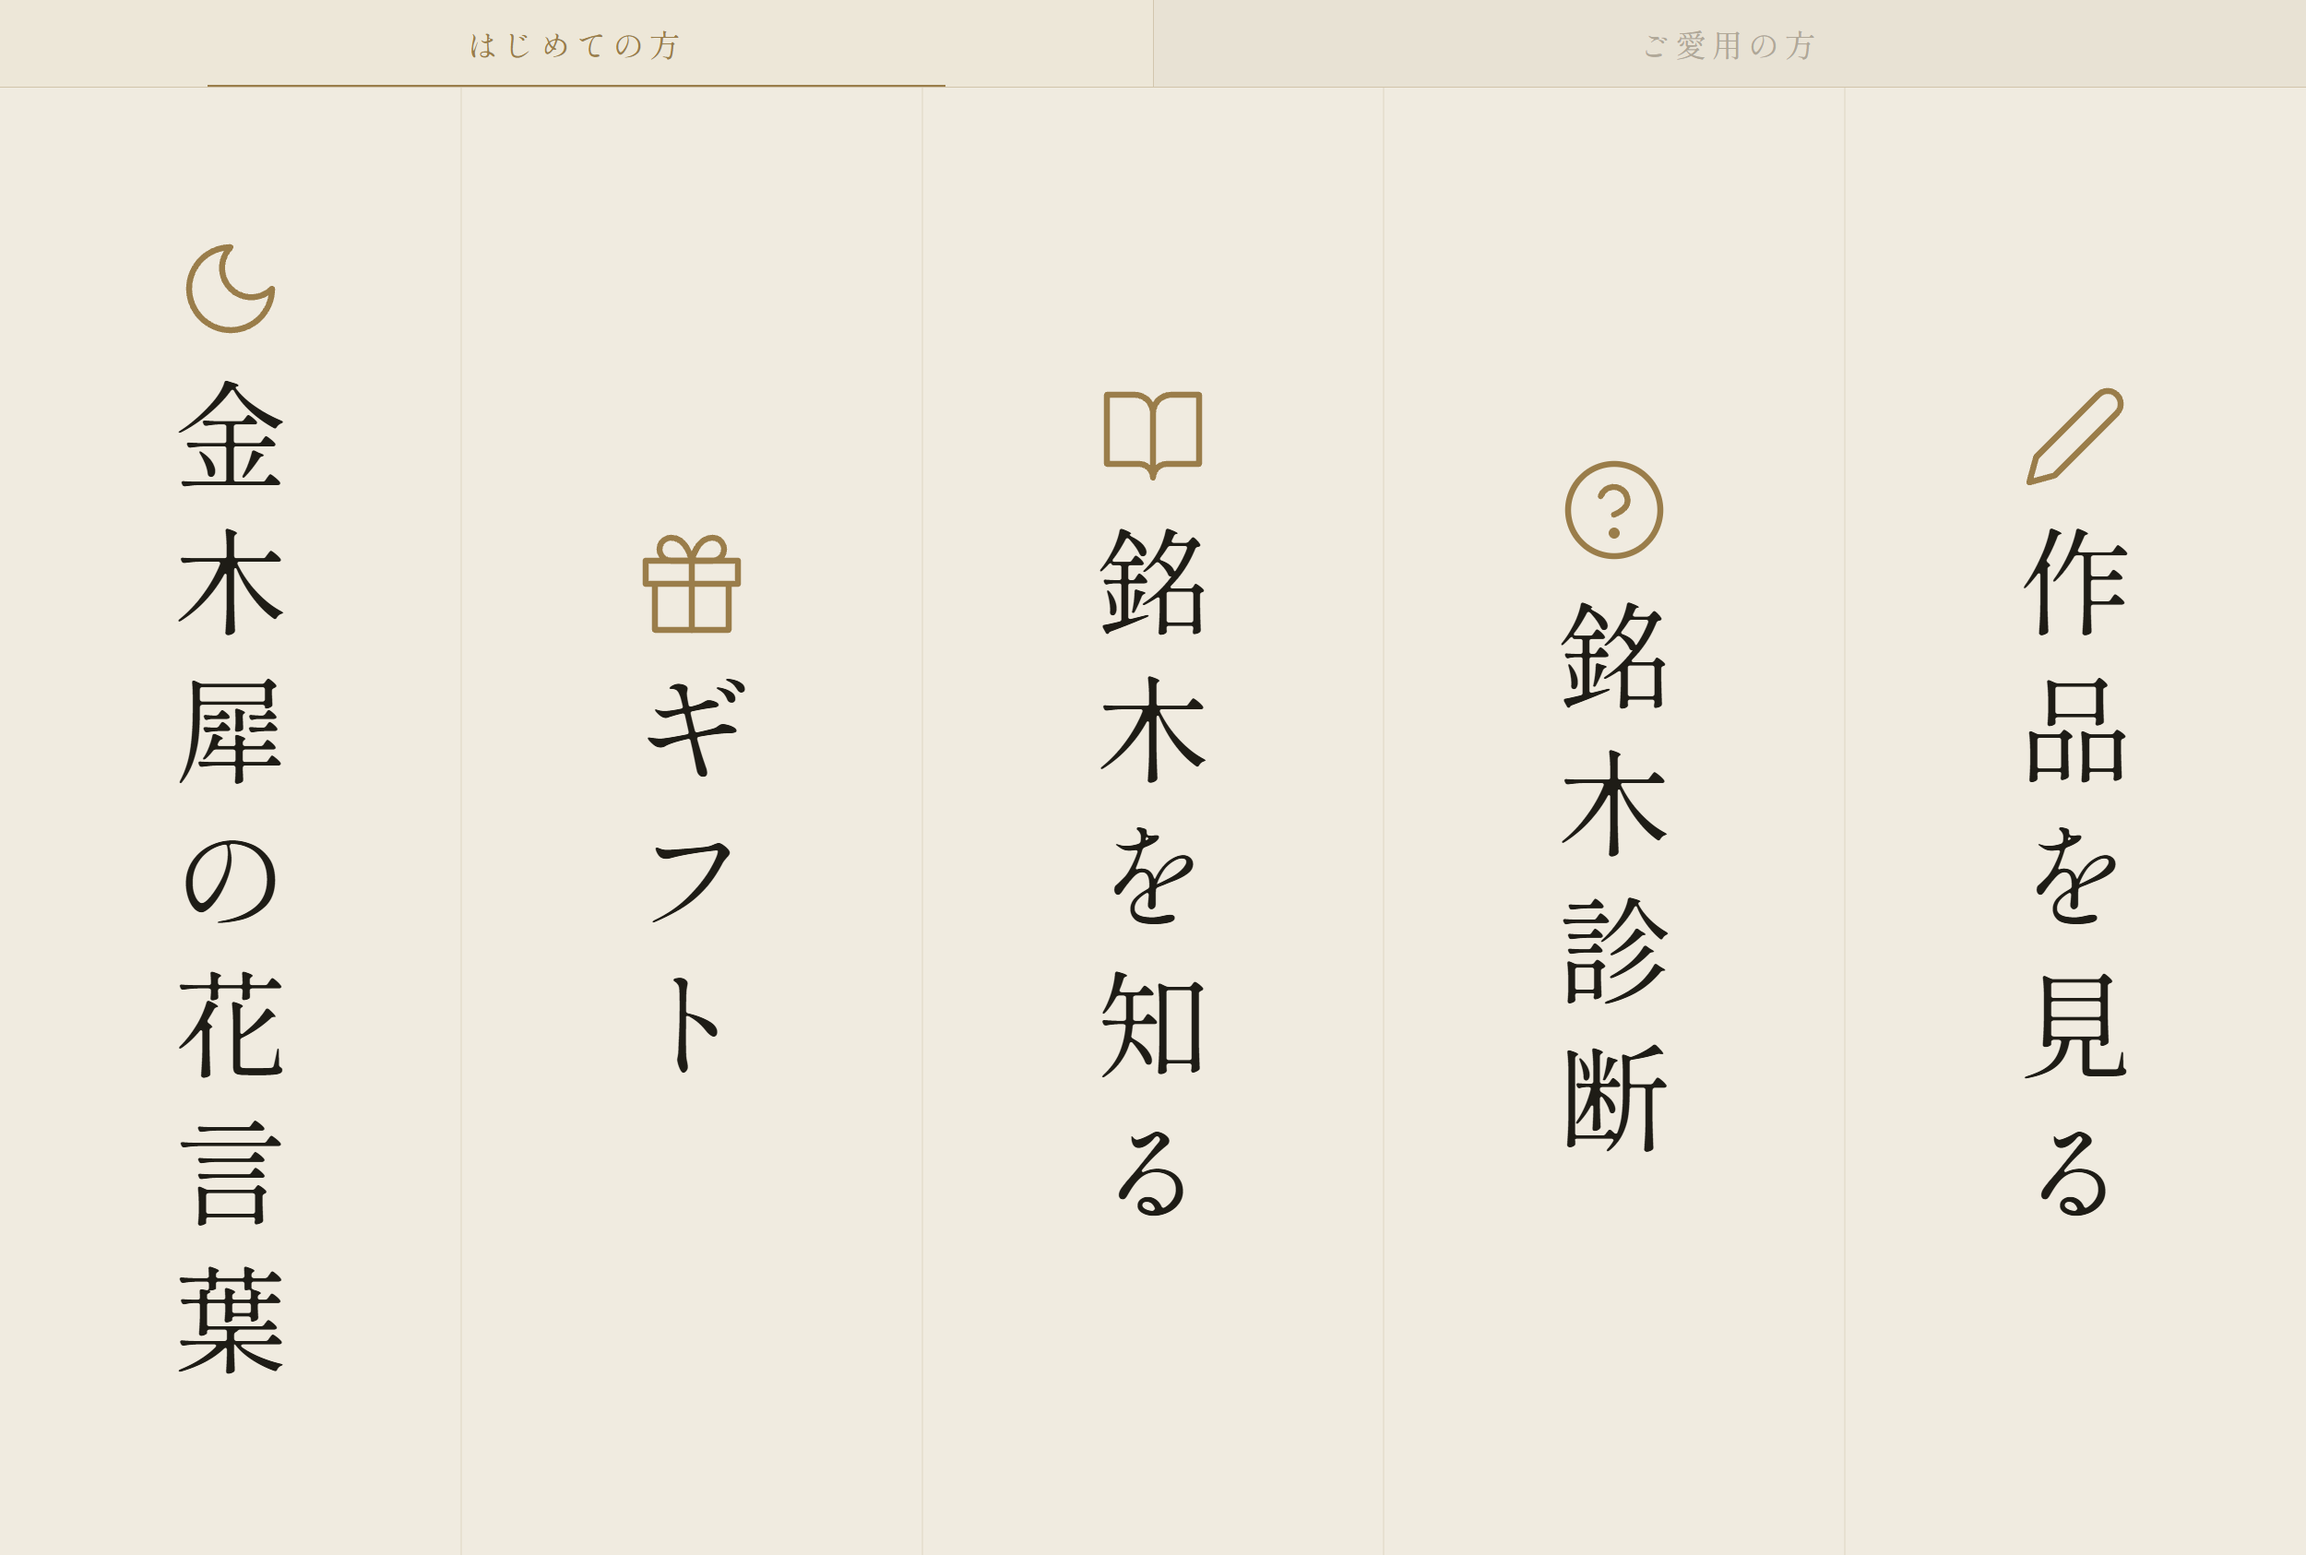
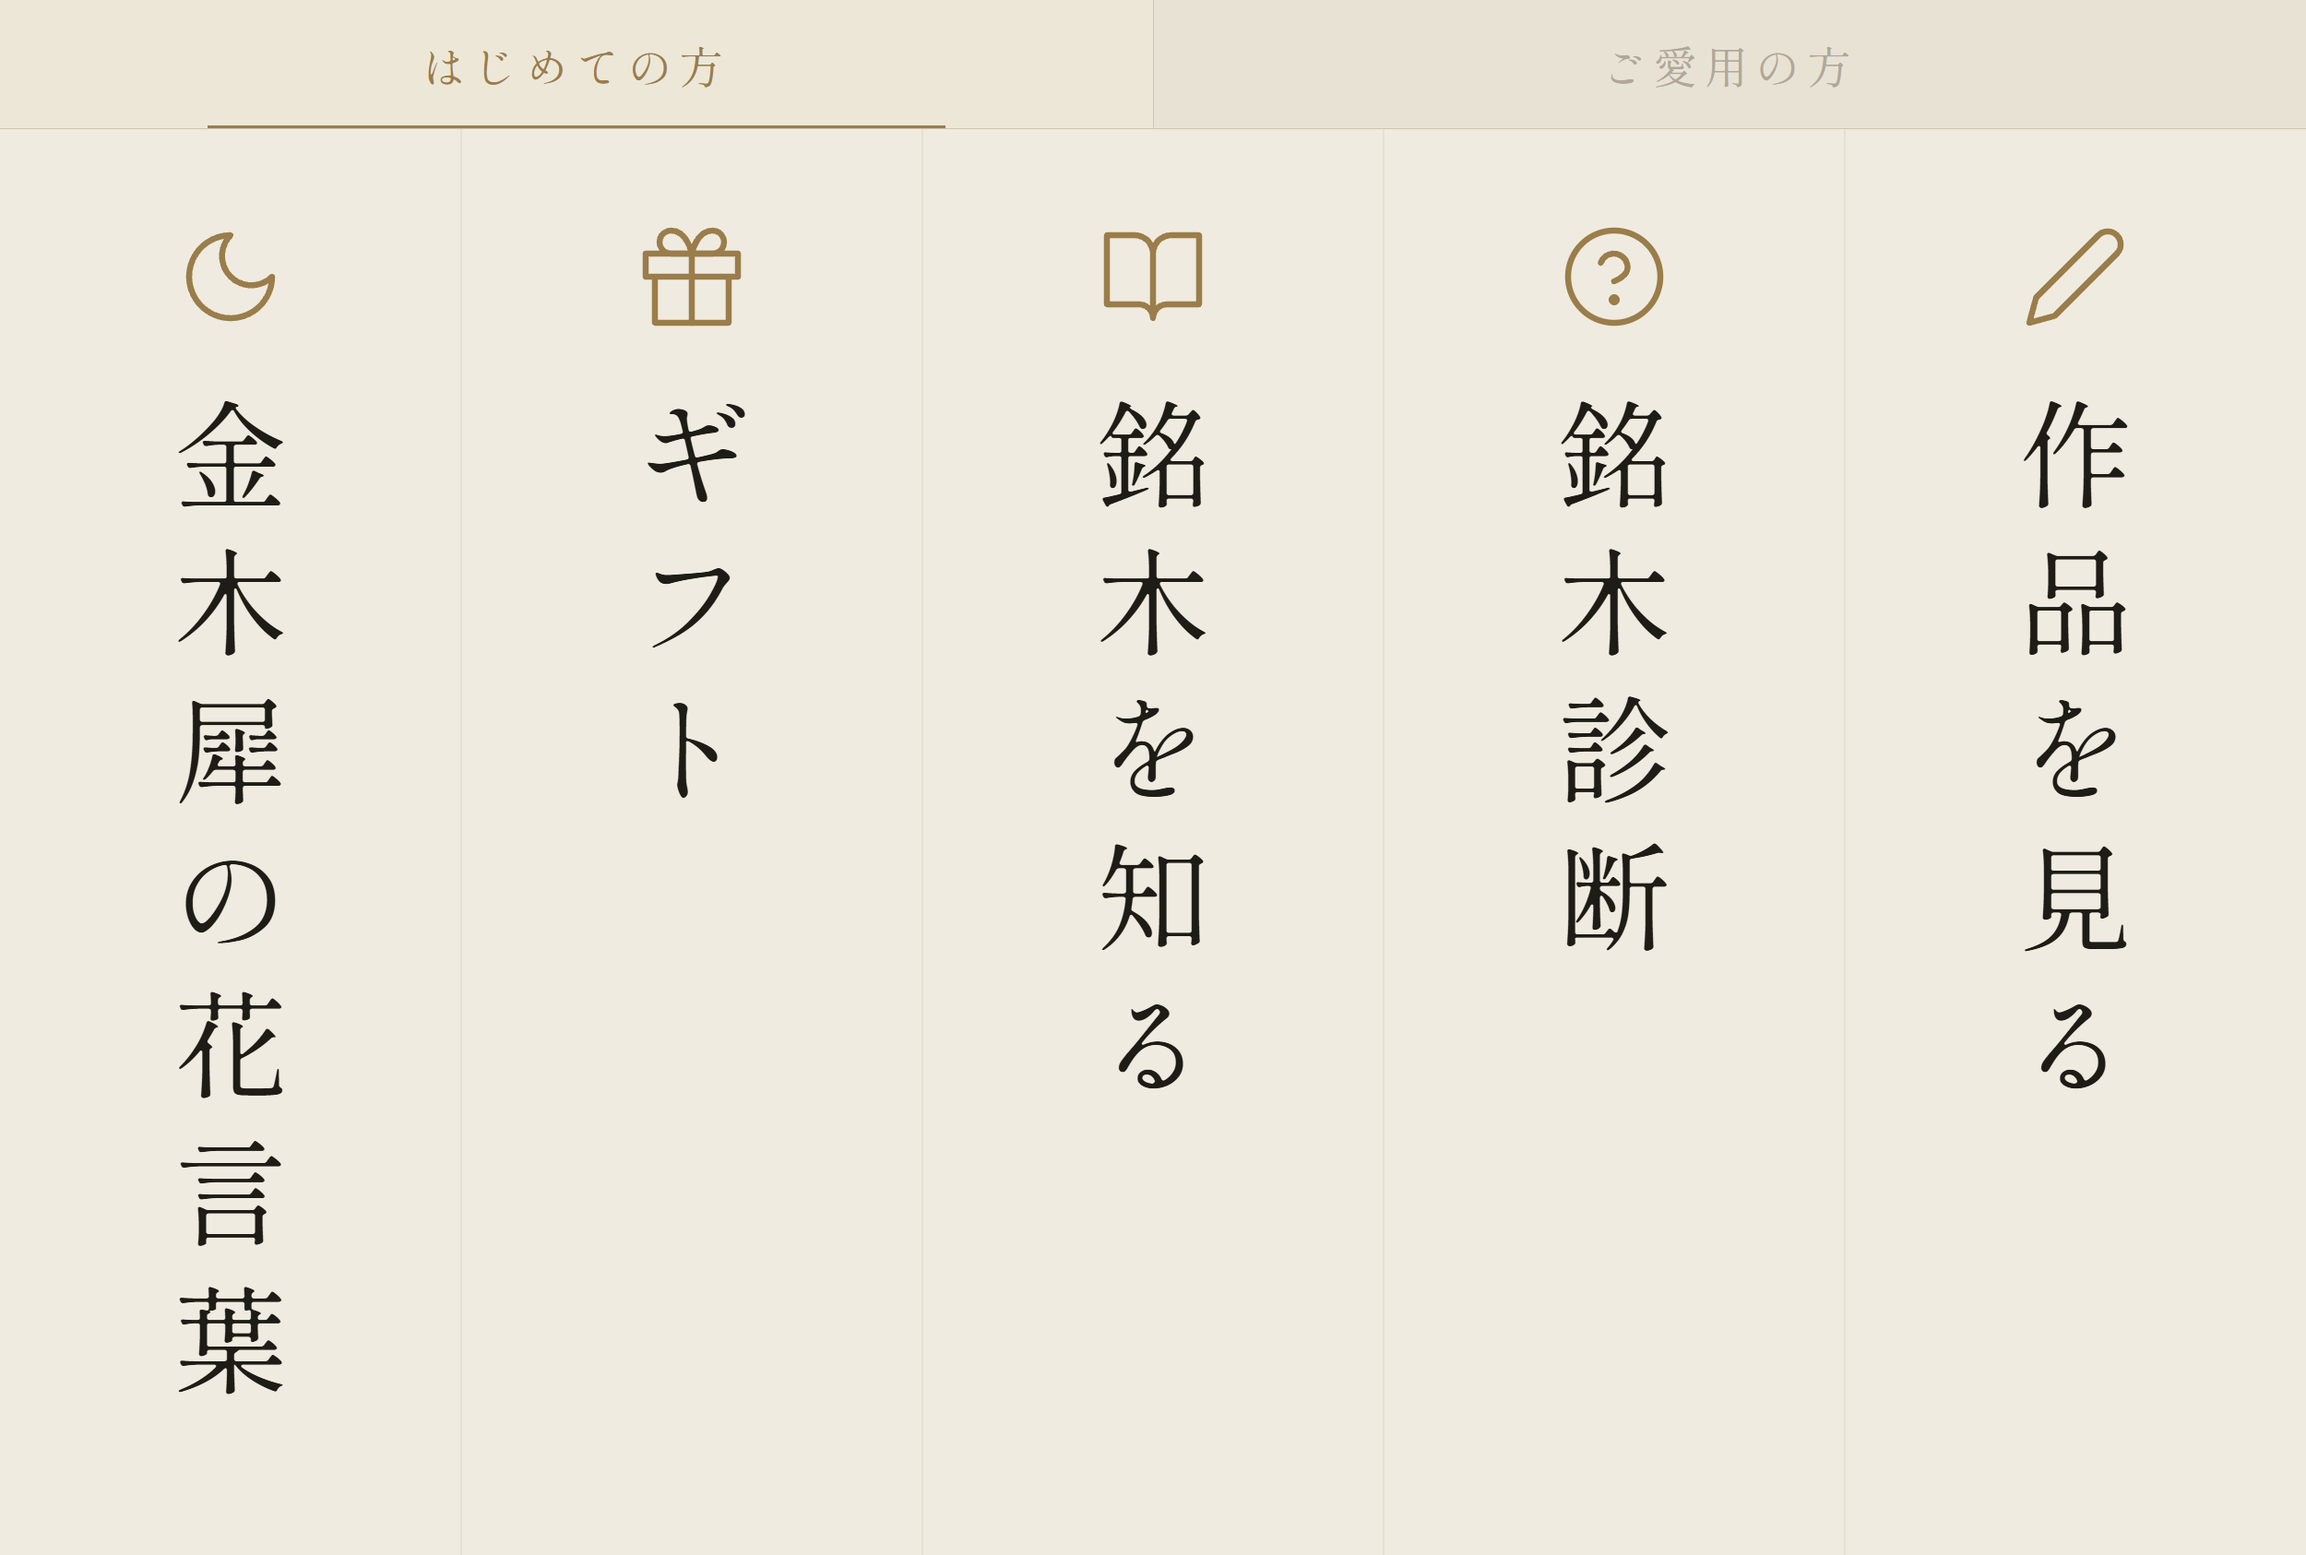
fix: タブバー拡大・縦書き書き出し位置を全列統一
- タブバー 95→140px、フォント 34→48px
- 全列 icon_cy=160, text_start_y=290 で上揃え (text-anchor="start")
- コンテンツ領域 1591→1546px

diff --git a/designs/richmenu-tab-a.html b/designs/richmenu-tab-a.html
@@ -13,18 +13,18 @@ body {
 }
 .menu { width: 2500px; height: 1686px; display: flex; flex-direction: column; background: #f0ebe0; }
 .tabs {
-  display: flex; align-items: stretch; height: 95px; flex-shrink: 0;
+  display: flex; align-items: stretch; height: 140px; flex-shrink: 0;
   background: #e8e2d4; border-bottom: 1px solid rgba(154,125,74,0.3);
 }
 .tab {
   flex: 1; display: flex; align-items: center; justify-content: center;
-  font-size: 34px; letter-spacing: 0.16em; position: relative;
+  font-size: 48px; letter-spacing: 0.16em; position: relative;
 }
 .tab.active   { color: #9a7d4a; background: #ede7d8; }
 .tab.inactive { color: #b0a898; background: transparent; }
 .tab.active::after {
   content: ''; position: absolute; bottom: 0; left: 18%; right: 18%;
-  height: 2px; background: #9a7d4a;
+  height: 3px; background: #9a7d4a;
 }
 .tab-sep { width: 1px; background: rgba(154,125,74,0.28); align-self: stretch; }
 </style>
@@ -38,77 +38,71 @@ body {
   </div>
 
   <!--
-    content_h=1591, icon=120px(half=60), font-size=126, letter-spacing=34, gap=70
-    text_h = N×126 + (N-1)×34
-    total  = 120 + 70 + text_h
-    icon_cy = (1591 - total)/2 + 60   ← 縦中央
-    text_cy = 873 (全列固定)          ← 横中央
-
-    金木犀の花言葉 (7ch): text_h=1086, total=1276, icon_cy=218  ← 80.2%
-    ギフト         (3ch): text_h=446,  total=636,  icon_cy=538
-    銘木を知る     (5ch): text_h=766,  total=956,  icon_cy=378
-    銘木診断       (4ch): text_h=606,  total=796,  icon_cy=458
-    作品を見る     (5ch): text_h=766,  total=956,  icon_cy=378
+    content_h=1546 (=1686-140)
+    icon=120px(half=60), font-size=126, letter-spacing=34, gap=70
+    全列統一: icon_cy=160, text_start_y=290 (=100+120+70)
+    text-anchor="start" → テキストは書き出し位置から下へ流れる
+    短いラベルは下に余白ができるが、書き出し位置は全列揃い
   -->
-  <svg width="2500" height="1591" xmlns="http://www.w3.org/2000/svg" style="flex-shrink:0;display:block;">
-    <rect width="2500" height="1591" fill="#f0ebe0"/>
-    <line x1="500"  y1="0" x2="500"  y2="1591" stroke="rgba(154,125,74,0.2)" stroke-width="1"/>
-    <line x1="1000" y1="0" x2="1000" y2="1591" stroke="rgba(154,125,74,0.2)" stroke-width="1"/>
-    <line x1="1500" y1="0" x2="1500" y2="1591" stroke="rgba(154,125,74,0.2)" stroke-width="1"/>
-    <line x1="2000" y1="0" x2="2000" y2="1591" stroke="rgba(154,125,74,0.2)" stroke-width="1"/>
+  <svg width="2500" height="1546" xmlns="http://www.w3.org/2000/svg" style="flex-shrink:0;display:block;">
+    <rect width="2500" height="1546" fill="#f0ebe0"/>
+    <line x1="500"  y1="0" x2="500"  y2="1546" stroke="rgba(154,125,74,0.2)" stroke-width="1"/>
+    <line x1="1000" y1="0" x2="1000" y2="1546" stroke="rgba(154,125,74,0.2)" stroke-width="1"/>
+    <line x1="1500" y1="0" x2="1500" y2="1546" stroke="rgba(154,125,74,0.2)" stroke-width="1"/>
+    <line x1="2000" y1="0" x2="2000" y2="1546" stroke="rgba(154,125,74,0.2)" stroke-width="1"/>
 
-    <!-- Col 1: 金木犀の花言葉 (cx=250, icon_cy=218) -->
-    <g transform="translate(250,218)">
+    <!-- Col 1: 金木犀の花言葉 (cx=250) -->
+    <g transform="translate(250,160)">
       <svg x="-60" y="-60" width="120" height="120" viewBox="0 0 24 24" fill="none" stroke="#9a7d4a" stroke-width="1.3" stroke-linecap="round" stroke-linejoin="round">
         <path d="M12 3a6 6 0 009 9 9 9 0 11-9-9z"/>
       </svg>
     </g>
-    <text x="250" y="873" writing-mode="vertical-rl" text-anchor="middle"
+    <text x="250" y="290" writing-mode="vertical-rl" text-anchor="start"
           font-family="'Shippori Mincho B1','Hiragino Mincho ProN','Yu Mincho',serif"
           font-size="126" letter-spacing="34" fill="#1e1c16">金木犀の花言葉</text>
 
-    <!-- Col 2: ギフト (cx=750, icon_cy=538) -->
-    <g transform="translate(750,538)">
+    <!-- Col 2: ギフト (cx=750) -->
+    <g transform="translate(750,160)">
       <svg x="-60" y="-60" width="120" height="120" viewBox="0 0 24 24" fill="none" stroke="#9a7d4a" stroke-width="1.3" stroke-linecap="round" stroke-linejoin="round">
         <path d="M20 12v10H4V12"/><path d="M22 7H2v5h20V7z"/><path d="M12 22V7"/>
         <path d="M12 7H7.5a2.5 2.5 0 010-5C11 2 12 7 12 7z"/>
         <path d="M12 7h4.5a2.5 2.5 0 000-5C13 2 12 7 12 7z"/>
       </svg>
     </g>
-    <text x="750" y="873" writing-mode="vertical-rl" text-anchor="middle"
+    <text x="750" y="290" writing-mode="vertical-rl" text-anchor="start"
           font-family="'Shippori Mincho B1','Hiragino Mincho ProN','Yu Mincho',serif"
           font-size="126" letter-spacing="34" fill="#1e1c16">ギフト</text>
 
-    <!-- Col 3: 銘木を知る (cx=1250, icon_cy=378) -->
-    <g transform="translate(1250,378)">
+    <!-- Col 3: 銘木を知る (cx=1250) -->
+    <g transform="translate(1250,160)">
       <svg x="-60" y="-60" width="120" height="120" viewBox="0 0 24 24" fill="none" stroke="#9a7d4a" stroke-width="1.3" stroke-linecap="round" stroke-linejoin="round">
         <path d="M2 3h6a4 4 0 014 4v14a3 3 0 00-3-3H2z"/>
         <path d="M22 3h-6a4 4 0 00-4 4v14a3 3 0 013-3h7z"/>
       </svg>
     </g>
-    <text x="1250" y="873" writing-mode="vertical-rl" text-anchor="middle"
+    <text x="1250" y="290" writing-mode="vertical-rl" text-anchor="start"
           font-family="'Shippori Mincho B1','Hiragino Mincho ProN','Yu Mincho',serif"
           font-size="126" letter-spacing="34" fill="#1e1c16">銘木を知る</text>
 
-    <!-- Col 4: 銘木診断 (cx=1750, icon_cy=458) -->
-    <g transform="translate(1750,458)">
+    <!-- Col 4: 銘木診断 (cx=1750) -->
+    <g transform="translate(1750,160)">
       <svg x="-60" y="-60" width="120" height="120" viewBox="0 0 24 24" fill="none" stroke="#9a7d4a" stroke-width="1.3" stroke-linecap="round" stroke-linejoin="round">
         <path d="M9.09 9a3 3 0 015.83 1c0 2-3 3-3 3"/>
         <circle cx="12" cy="17" r="1.2" fill="#9a7d4a" stroke="none"/>
         <circle cx="12" cy="12" r="10"/>
       </svg>
     </g>
-    <text x="1750" y="873" writing-mode="vertical-rl" text-anchor="middle"
+    <text x="1750" y="290" writing-mode="vertical-rl" text-anchor="start"
           font-family="'Shippori Mincho B1','Hiragino Mincho ProN','Yu Mincho',serif"
           font-size="126" letter-spacing="34" fill="#1e1c16">銘木診断</text>
 
-    <!-- Col 5: 作品を見る (cx=2250, icon_cy=378) -->
-    <g transform="translate(2250,378)">
+    <!-- Col 5: 作品を見る (cx=2250) -->
+    <g transform="translate(2250,160)">
       <svg x="-60" y="-60" width="120" height="120" viewBox="0 0 24 24" fill="none" stroke="#9a7d4a" stroke-width="1.3" stroke-linecap="round" stroke-linejoin="round">
         <path d="M17 3a2.828 2.828 0 114 4L7.5 20.5 2 22l1.5-5.5L17 3z"/>
       </svg>
     </g>
-    <text x="2250" y="873" writing-mode="vertical-rl" text-anchor="middle"
+    <text x="2250" y="290" writing-mode="vertical-rl" text-anchor="start"
           font-family="'Shippori Mincho B1','Hiragino Mincho ProN','Yu Mincho',serif"
           font-size="126" letter-spacing="34" fill="#1e1c16">作品を見る</text>
   </svg>

diff --git a/designs/richmenu-tab-b.html b/designs/richmenu-tab-b.html
@@ -13,18 +13,18 @@ body {
 }
 .menu { width: 2500px; height: 1686px; display: flex; flex-direction: column; background: #1a0e08; }
 .tabs {
-  display: flex; align-items: stretch; height: 95px; flex-shrink: 0;
+  display: flex; align-items: stretch; height: 140px; flex-shrink: 0;
   background: #120a04; border-bottom: 1px solid rgba(154,125,74,0.3);
 }
 .tab {
   flex: 1; display: flex; align-items: center; justify-content: center;
-  font-size: 34px; letter-spacing: 0.16em; position: relative;
+  font-size: 48px; letter-spacing: 0.16em; position: relative;
 }
 .tab.active   { color: #e0cca0; background: #1e1208; }
 .tab.inactive { color: rgba(224,204,160,0.38); background: transparent; }
 .tab.active::after {
   content: ''; position: absolute; bottom: 0; left: 18%; right: 18%;
-  height: 2px; background: #9a7d4a;
+  height: 3px; background: #9a7d4a;
 }
 .tab-sep { width: 1px; background: rgba(154,125,74,0.28); align-self: stretch; }
 </style>
@@ -38,17 +38,13 @@ body {
   </div>
 
   <!--
-    content_h=1591, icon=120px(half=60), font-size=126, letter-spacing=34, gap=70
-    text_cy = 873 (全列固定)
-
-    お手入れ (4ch): text_h=606, total=796,  icon_cy=458
-    注文確認 (4ch): same
-    新作     (2ch): text_h=286, total=476,  icon_cy=618
+    content_h=1546, icon_cy=160, text_start_y=290, text-anchor="start"
+    全列のアイコン・書き出しを同じ高さに揃える
   -->
-  <svg width="2500" height="1591" xmlns="http://www.w3.org/2000/svg" style="flex-shrink:0;">
-    <rect width="2500" height="1591" fill="#1a0e08"/>
-    <line x1="833"  y1="0" x2="833"  y2="1591" stroke="rgba(154,125,74,0.22)" stroke-width="1"/>
-    <line x1="1667" y1="0" x2="1667" y2="1591" stroke="rgba(154,125,74,0.22)" stroke-width="1"/>
+  <svg width="2500" height="1546" xmlns="http://www.w3.org/2000/svg" style="flex-shrink:0;">
+    <rect width="2500" height="1546" fill="#1a0e08"/>
+    <line x1="833"  y1="0" x2="833"  y2="1546" stroke="rgba(154,125,74,0.22)" stroke-width="1"/>
+    <line x1="1667" y1="0" x2="1667" y2="1546" stroke="rgba(154,125,74,0.22)" stroke-width="1"/>
     <defs>
       <linearGradient id="gold-line" x1="0" y1="0" x2="1" y2="0">
         <stop offset="0%"   stop-color="rgba(154,125,74,0)"/>
@@ -60,20 +56,20 @@ body {
     <line x1="983"  y1="0" x2="1517" y2="0" stroke="url(#gold-line)" stroke-width="1"/>
     <line x1="1817" y1="0" x2="2350" y2="0" stroke="url(#gold-line)" stroke-width="1"/>
 
-    <!-- Col 1: お手入れ (cx=417, icon_cy=458) -->
-    <g transform="translate(417,458)">
+    <!-- Col 1: お手入れ (cx=417) -->
+    <g transform="translate(417,160)">
       <svg x="-60" y="-60" width="120" height="120" viewBox="0 0 24 24"
            fill="none" stroke="#9a7d4a" stroke-width="1.3" stroke-linecap="round" stroke-linejoin="round">
         <path d="M12 22s8-4 8-10V5l-8-3-8 3v7c0 6 8 10 8 10z"/>
         <path d="M9 12l2 2 4-4"/>
       </svg>
     </g>
-    <text x="417" y="873" writing-mode="vertical-rl" text-anchor="middle"
+    <text x="417" y="290" writing-mode="vertical-rl" text-anchor="start"
           font-family="'Shippori Mincho B1','Hiragino Mincho ProN','Yu Mincho',serif"
           font-size="126" letter-spacing="34" fill="#e0d4b8">お手入れ</text>
 
-    <!-- Col 2: 注文確認 (cx=1250, icon_cy=458) -->
-    <g transform="translate(1250,458)">
+    <!-- Col 2: 注文確認 (cx=1250) -->
+    <g transform="translate(1250,160)">
       <svg x="-60" y="-60" width="120" height="120" viewBox="0 0 24 24"
            fill="none" stroke="#9a7d4a" stroke-width="1.3" stroke-linecap="round" stroke-linejoin="round">
         <path d="M20 7H4a2 2 0 00-2 2v10a2 2 0 002 2h16a2 2 0 002-2V9a2 2 0 00-2-2z"/>
@@ -81,18 +77,18 @@ body {
         <path d="M9 13h6M9 17h4"/>
       </svg>
     </g>
-    <text x="1250" y="873" writing-mode="vertical-rl" text-anchor="middle"
+    <text x="1250" y="290" writing-mode="vertical-rl" text-anchor="start"
           font-family="'Shippori Mincho B1','Hiragino Mincho ProN','Yu Mincho',serif"
           font-size="126" letter-spacing="34" fill="#e0d4b8">注文確認</text>
 
-    <!-- Col 3: 新作 (cx=2083, icon_cy=618) -->
-    <g transform="translate(2083,618)">
+    <!-- Col 3: 新作 (cx=2083) -->
+    <g transform="translate(2083,160)">
       <svg x="-60" y="-60" width="120" height="120" viewBox="0 0 24 24"
            fill="none" stroke="#9a7d4a" stroke-width="1.3" stroke-linecap="round" stroke-linejoin="round">
         <polygon points="12 2 15.09 8.26 22 9.27 17 14.14 18.18 21.02 12 17.77 5.82 21.02 7 14.14 2 9.27 8.91 8.26 12 2"/>
       </svg>
     </g>
-    <text x="2083" y="873" writing-mode="vertical-rl" text-anchor="middle"
+    <text x="2083" y="290" writing-mode="vertical-rl" text-anchor="start"
           font-family="'Shippori Mincho B1','Hiragino Mincho ProN','Yu Mincho',serif"
           font-size="126" letter-spacing="34" fill="#e0d4b8">新作</text>
   </svg>

diff --git a/lib/line/richmenu.ts b/lib/line/richmenu.ts
@@ -73,9 +73,9 @@ export const KINMOKUSEI_MENU: RichMenuDef = {
 //   Tab A → "kinmokusei-menu-a"
 //   Tab B → "kinmokusei-menu-b"
 // ──────────────────────────────────────────────
-const TAB_H  = 95
-const CONT_Y = 95
-const CONT_H = 1591
+const TAB_H  = 140
+const CONT_Y = 140
+const CONT_H = 1546
 
 export const ALIAS_A = 'kinmokusei-menu-a'
 export const ALIAS_B = 'kinmokusei-menu-b'
